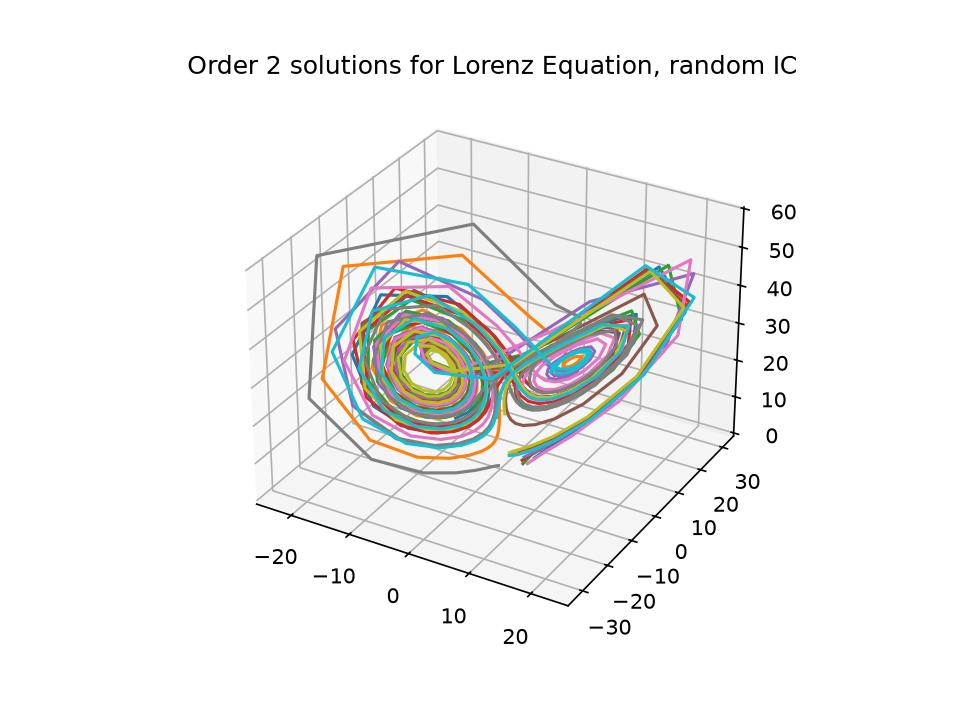
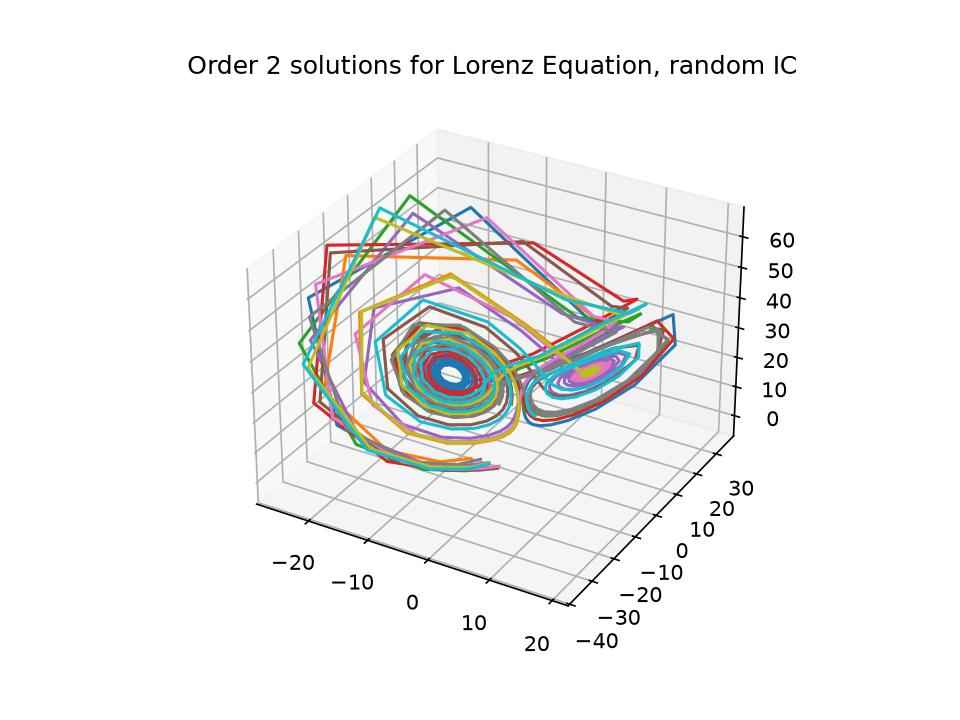
three bodies wip

diff --git a/three_bodies.py b/three_bodies.py
@@ -1,0 +1,69 @@
+import numpy as np 
+import matplotlib.pyplot as plt
+
+G = 6.6743e-11
+m_1 = 300e3
+m_2 = 5e4
+m_3 = 7e5
+
+
+def f(t,s_1,s_2,s_3,s_1p=0,s_2p=0,s_3p=0):
+    y_1 = s_1
+    y_2 = s_2
+    y_3 = s_3
+    y_4 = s_1p
+    y_5 = s_2p
+    y_6 = s_3p
+    r_12 = np.linalg.norm(s_1-s_2)
+    r_23 = np.linalg.norm(s_2-s_3)
+    r_13 = np.linalg.norm(s_1-s_3)
+    y_1_p = y_4
+    y_2_p = y_5
+    y_3_p = y_6
+    y_4_p = -G*(m_2*r_13**2+m_3*r_12**2) / (r_12*r_13)**2
+    y_5_p = -G*(m_1*r_23**2+m_3*r_12**2) / (r_12*r_23)**2
+    y_6_p = -G*(m_3*r_12**2 + m_1*r_23**2) / (r_23*r_12)**2
+    v_1_p = np.array([y_1_p,y_2_p,y_3_p,y_4_p,y_5_p,y_6_p])
+    x_1 = np.array([y_1,y_2,y_3])+t*v_1_p[0:3]+t**2*v_1_p[3:]
+
+
+    return x_1
+
+s_1 = np.random.normal(loc=(2,2,2),size=(1,3))
+s_2 = np.random.normal(loc=(2,-2,-2),size=(1,3))
+s_3 = np.random.normal(loc=(-2,2,2),size=(1,3))
+s_1_i = s_1.copy()
+s_2_i = s_2.copy()
+s_3_i = s_3.copy()
+print(f"s_1 {s_1}\n s_2 {s_2} \n s_3 {s_3}")
+
+time = np.arange(1,100)
+
+length = np.size(time)
+print(length)
+points = np.zeros(shape=(length+1,3,3))
+pos = np.vstack([s_1_i,s_2_i,s_3_i])
+points[0,...] += pos
+
+
+for t in time:
+    s_1,s_2,s_3 = f(t,s_1,s_2,s_3)
+    pos = np.vstack([s_1,s_2,s_3])
+    points[t,...] += pos
+
+
+time = np.arange(0,100)
+ax = plt.figure().add_subplot(projection='3d')
+x_1 = points[time,0,...]
+x_2 = points[time,1,...]
+x_3 = points[time,2,...]
+
+print(np.shape(x_1))
+ax.plot(x_1[:,0],x_1[:,1],x_1[:,2],label=f'first mass {m_1}')
+ax.plot(x_2[:,1],x_2[:,1],x_2[:,2],label=f'second mass {m_2}')
+ax.plot(x_3[:,1],x_3[:,1],x_3[:,2],label=f'third mass {m_3}')
+ax.scatter(s_1_i[:,0],s_1_i[:,1],s_1_i[:,2],label=f'first initial point',color='red')
+ax.scatter(s_2_i[:,0],s_2_i[:,1],s_2_i[:,2],label=f'second initial point',color='red')
+ax.scatter(s_3_i[:,0],s_3_i[:,1],s_3_i[:,2],label=f'third initial point',color='red')
+plt.legend()
+plt.show()
